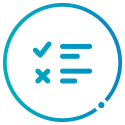
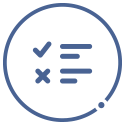
Updating style to reflect Pinpoint's

diff --git a/html/static/js/cards/elements.js b/html/static/js/cards/elements.js
@@ -23,12 +23,12 @@ export class SelectInput extends React.Component {
         )
         return [
             _( "div", { key: '1', className: "input-field" },
-                _( "select", 
+                _( "select",
                     {
                         id: this.state.input_id,
-                        value: this.props.value || "", 
+                        value: this.props.value || "",
                         onChange: (e) => this.props.assign(e.target.value)
-                    }, 
+                    },
                     options,
                 ),
             ),
@@ -53,12 +53,12 @@ export class DateInput extends React.Component {
         return [
             _("div", {key: "input-field", className: "input-field"},
                 _("input", {
-                    key: this.state.input_id, 
+                    key: this.state.input_id,
                     id: this.state.input_id,
-                    type: "text", 
+                    type: "text",
                     className: "datepicker"
                 }),
-                _("label", {key: 'label', htmlFor: this.state.input_id}, 
+                _("label", {key: 'label', htmlFor: this.state.input_id},
                     this.props.label || "Choose a date"
                 ),
             ),
@@ -80,8 +80,8 @@ export class AutocompleteInput extends React.Component {
         }
         var elems = document.getElementById(this.state.input_id)
         var instances = M.Autocomplete.init(elems, {
-            data: data, 
-            limit: 5, 
+            data: data,
+            limit: 5,
             minLength: 0,
             onAutocomplete: (value) => this.props.assign(value),
         })
@@ -92,8 +92,8 @@ export class AutocompleteInput extends React.Component {
         return [
             _("div", {key: this.props.label, className: "input-field"},
                 _("input", {
-                    id: this.state.input_id, 
-                    type: "text", 
+                    id: this.state.input_id,
+                    type: "text",
                     className: "autocomplete"}),
                 _("label", {htmlFor: this.state.input_id}, this.props.label),
             ),
@@ -125,8 +125,8 @@ export class PrintCard extends React.Component {
             (item, index) => _("span", { key: index }, item, _("br", null) ))
         return [
             _("section", {key: '1', style: style}, broken_text),
-            _("a", 
-                { key: '2', 
+            _("a",
+                { key: '2',
                   className: "hide-in-print",
                   href: 'javascript:void(0)',
                   onClick: window.print },
@@ -152,7 +152,7 @@ export class LineGraph extends React.Component {
                 responsive: true,
                 animation: { duration: 0 },
                 hover: { animationDuration: 0 },
-                responsiveAnimationDuration: 0, 
+                responsiveAnimationDuration: 0,
                 elements: { line: { tension: 0 }}}}
         let myChart = new Chart(context, configuration)
     }

diff --git a/html/static/css/main.css b/html/static/css/main.css
@@ -131,8 +131,9 @@
 @page { size: auto;  margin: 0mm; }
 
 * {
-  color: #555;
+  color: #30385d;
   box-sizing: border-box;
+  font-family: 'Didact Gothic', Roboto, Open Sans, sans-serif;
 }
 .application {
     display: grid;
@@ -146,10 +147,12 @@
     grid-area: header;
     font-family: 'Merienda', cursive;
     font-size: 2.6em;
-    padding: 0.1em;
-    padding-left: 0.4em;
-    background-color: #FAFAFA;
-    border-bottom: 1px solid #EEEEEE;
+    /* padding: 0.1em; */
+    padding: 2px 20px;
+    background-color: #1a1f2b;
+    /* border-bottom: 1px solid #EEEEEE; */
+    -webkit-box-shadow: 0 2px 2px 0 rgba(0,0,0,0.14), 0 3px 1px -2px rgba(0,0,0,0.12), 0 1px 5px 0 rgba(0,0,0,0.2);
+    box-shadow: 0 2px 2px 0 rgba(0,0,0,0.14), 0 3px 1px -2px rgba(0,0,0,0.12), 0 1px 5px 0 rgba(0,0,0,0.2);
     }
 .header-link {
     display: grid;
@@ -162,7 +165,7 @@
     grid-area: logo;
     }
 .header-logo img {
-    filter: brightness(0.01);
+    /* filter: brightness(0.01); */
     }
 .header-title {
     grid-area: title;
@@ -179,4 +182,35 @@ a {
     vertical-align: middle;
     display: inline;
     margin-right: 13px;
+}
+.card .card-content .card-title {
+  margin-bottom: 15px;
+}
+.card .card-action {
+  padding-left: 0;
+  padding-right: 0;
+  font-size: 15px;
+  }
+.card .card-action a:not(.btn):not(.btn-large):not(.btn-small):not(.btn-large):not(.btn-floating) {
+    color: #496393;
+    color: #84a4ce;
+  }
+.card .card-action a:not(.btn):not(.btn-large):not(.btn-small):not(.btn-large):not(.btn-floating):hover {
+    color: #84a4ce;
+  }
+.card .card-action:last-child {
+    border-color: #cfe4f3;
+    margin-top: 15px;
+  }
+  .card .card-action span {
+  color: #aaa;
+  display: block;
+  float: right;
+  margin-top: 15px;
+  font-size: 11px;
+    }
+.card .input-field + .card-action {
+  border: none;
+margin-top: 0;
+padding-top: 0;
 }

diff --git a/html/index.html b/html/index.html
@@ -17,7 +17,7 @@
       <a href='/'>
         <section class="header-link">
         <section class="header-logo">
-          <img src='/static/img/favicon.png' height="48" width="48"></section>
+          <img src='/static/img/flow_logo.png' height="30" width="135"></section>
         <section class="header-title">
           </section></section></a></section>
     <section class="content">

diff --git a/html/trees/index.html b/html/trees/index.html
@@ -19,7 +19,7 @@
       <a href='/'>
         <section class="header-link">
         <section class="header-logo">
-          <img src='/static/img/favicon.png' height="48" width="48"></section>
+          <img src='/static/img/flow_logo.png' height="30" width="135"></section>
         <section class="header-title">
           </section></section></a></section>
     <section class="content">
